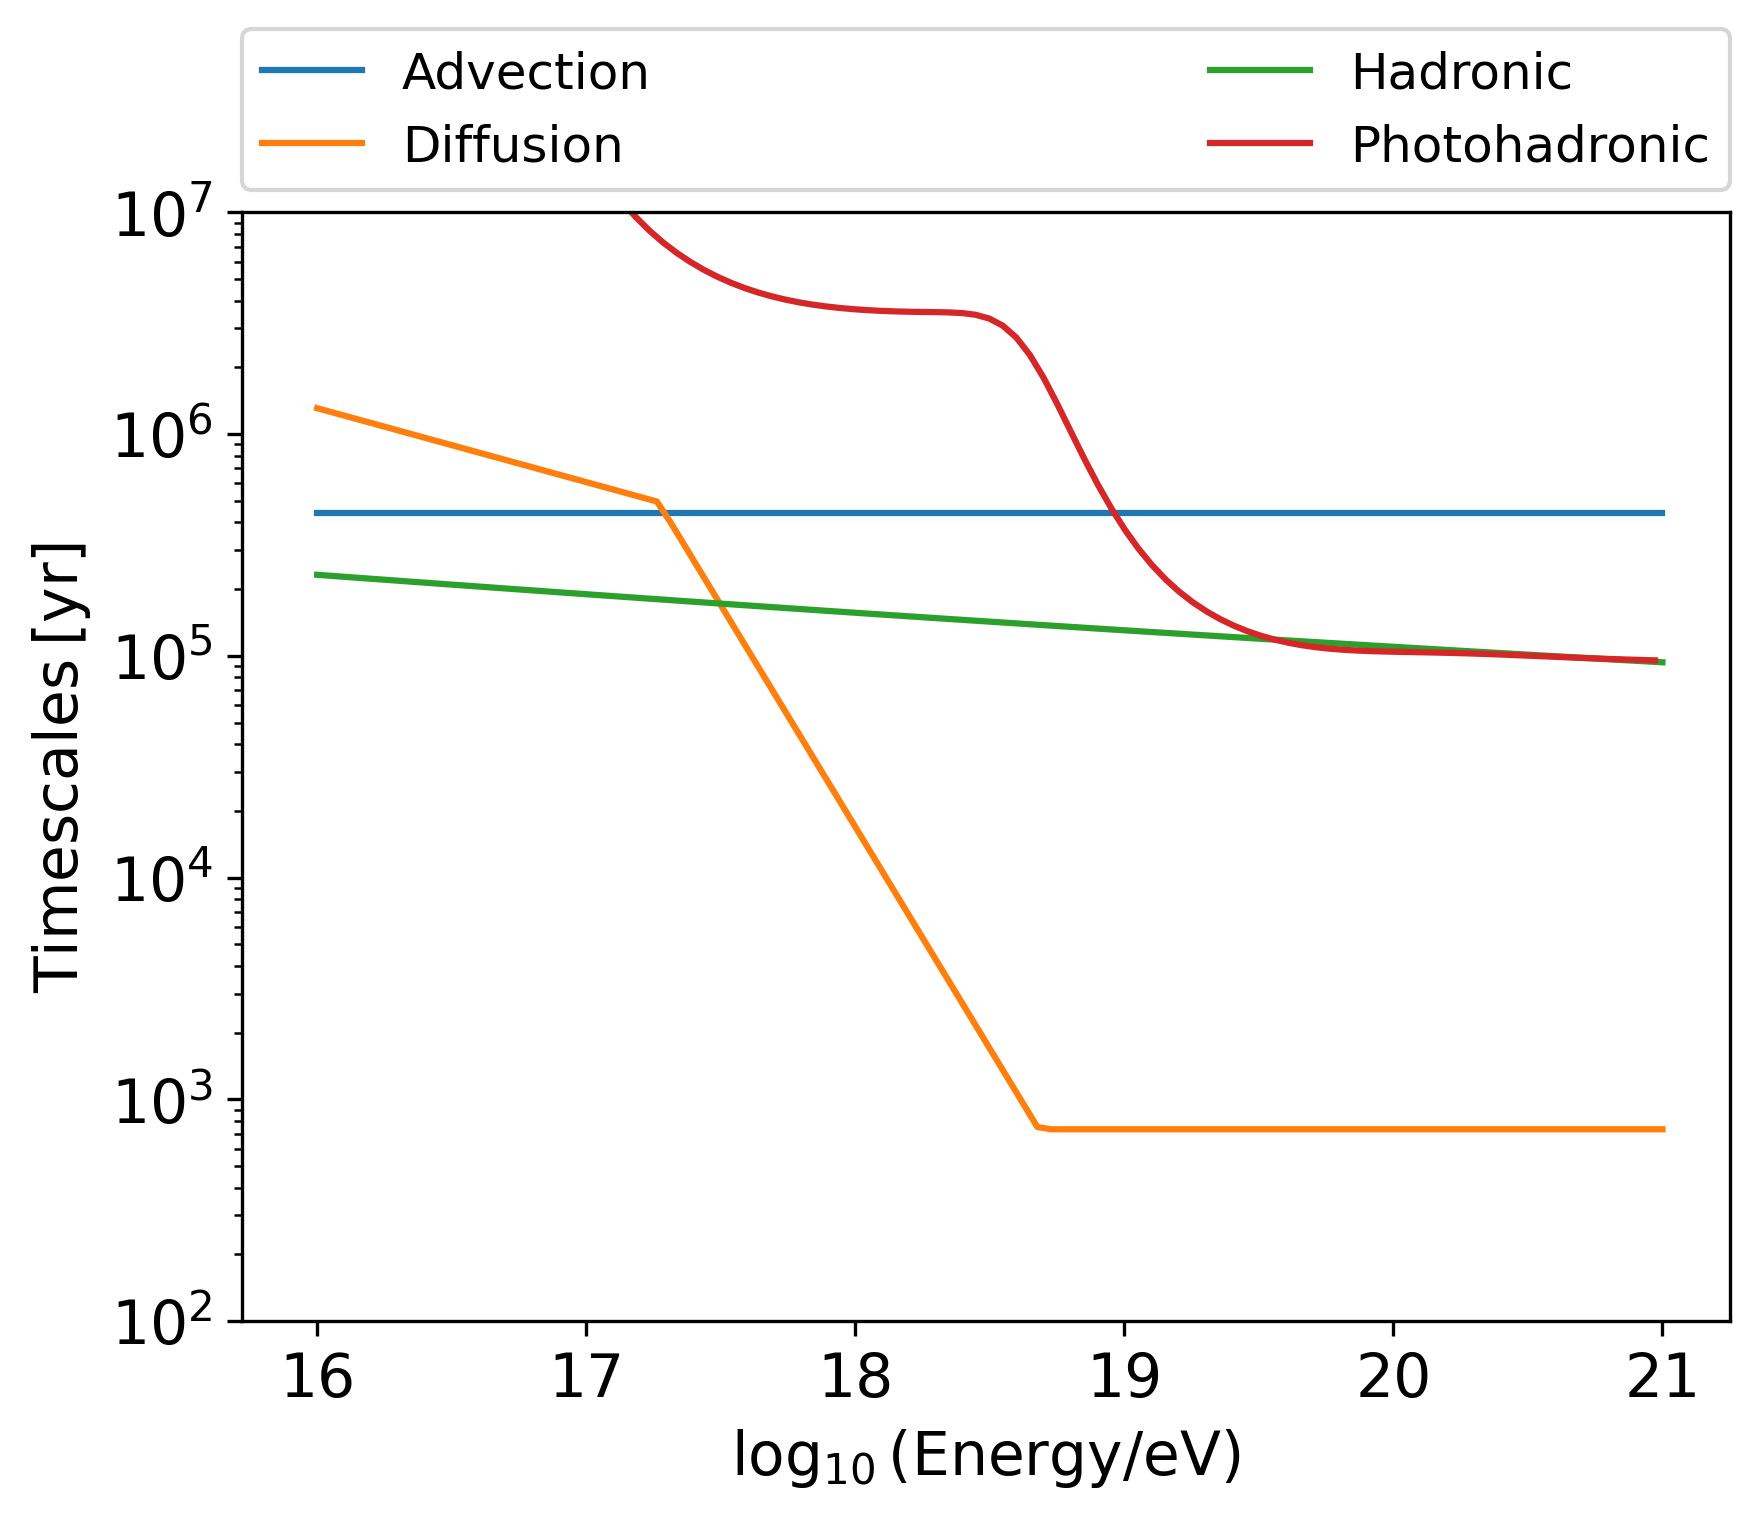
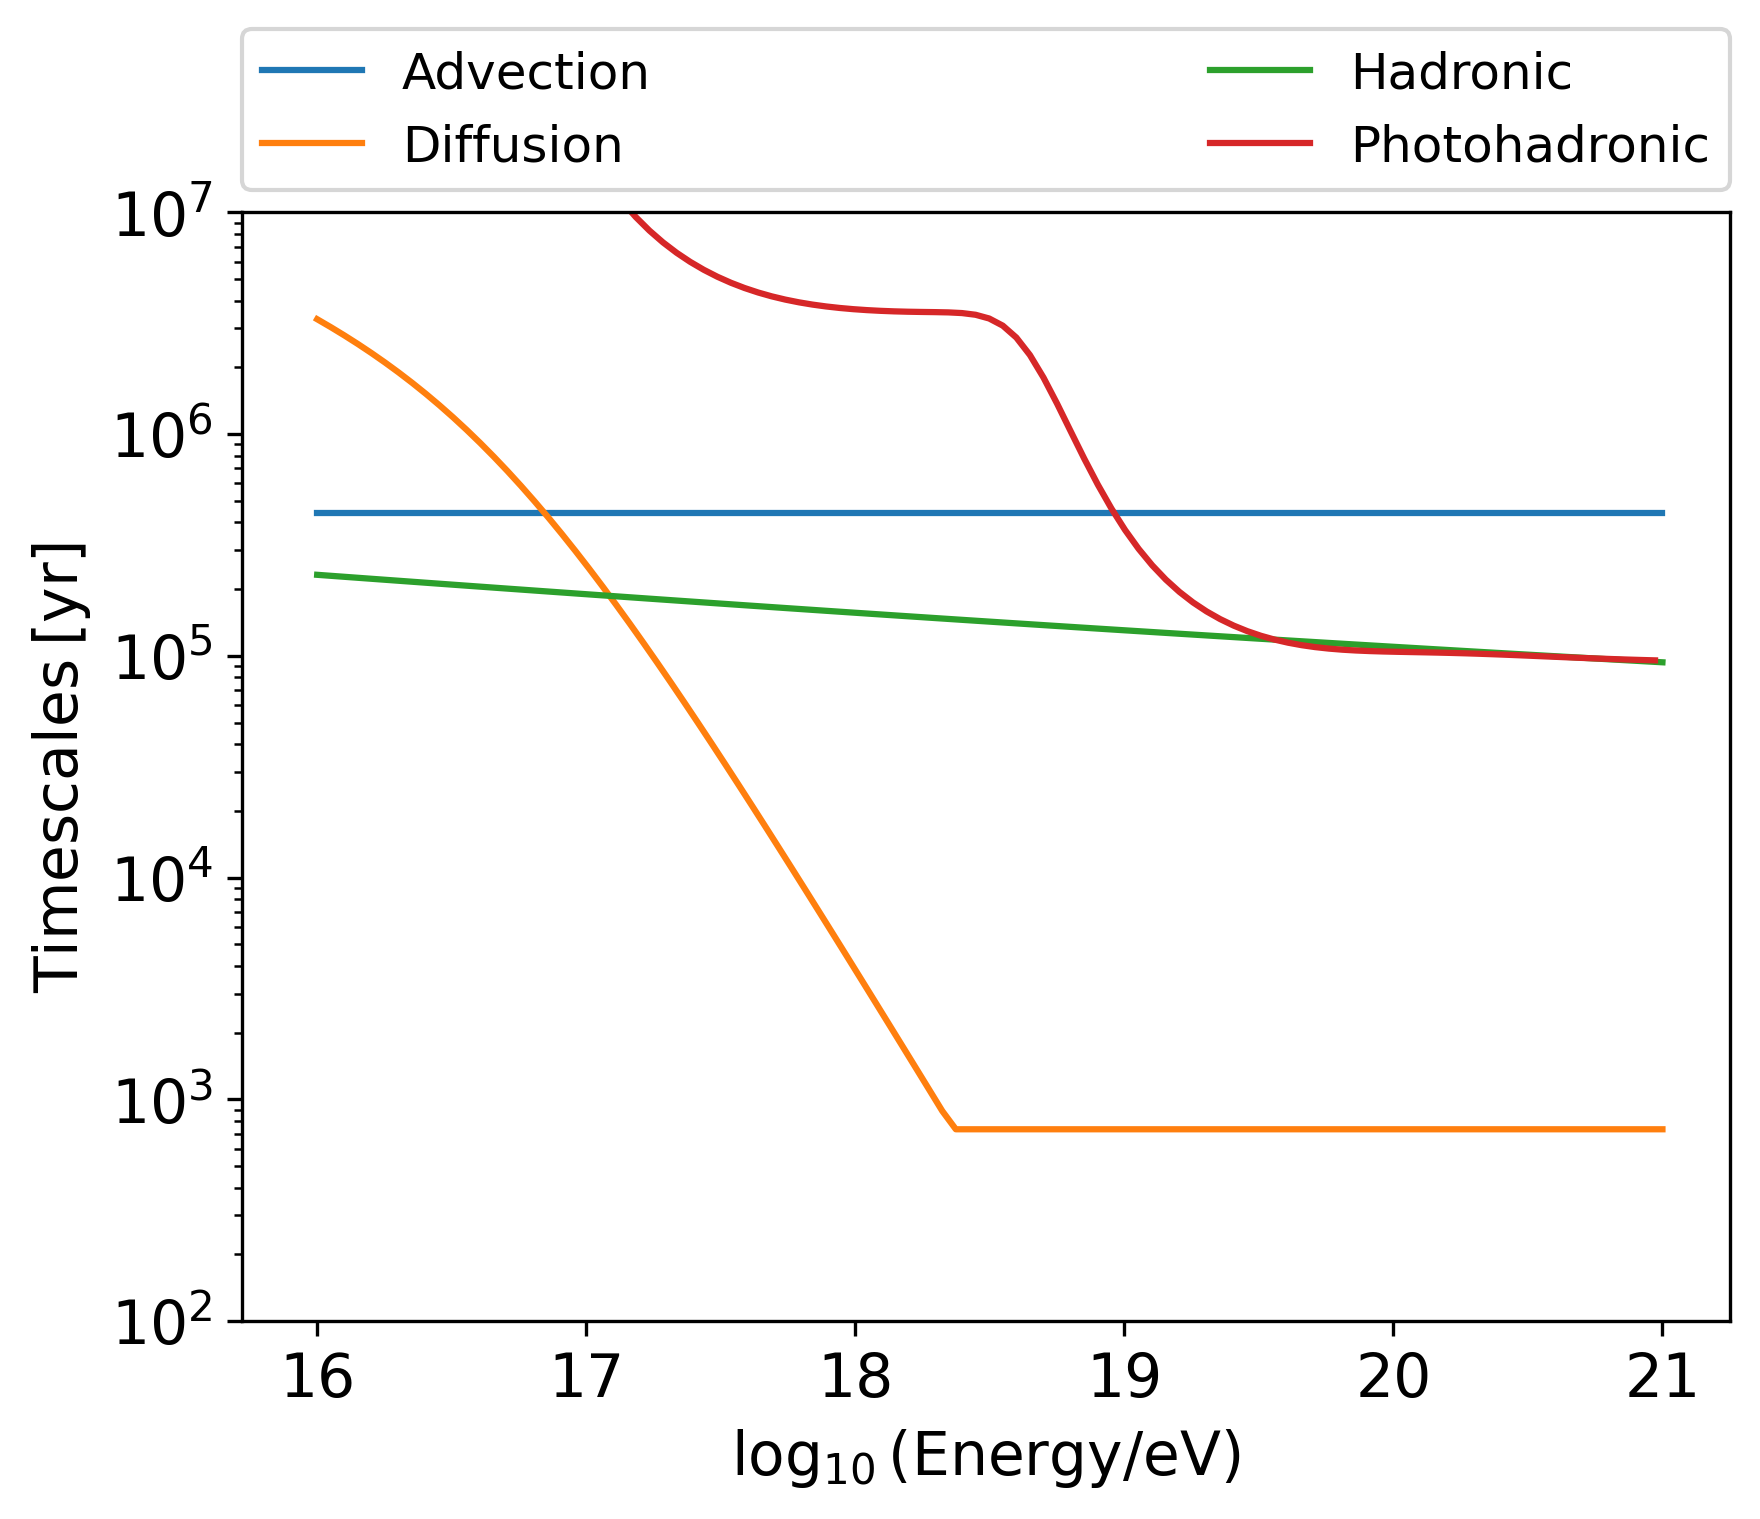
Update diffusion coefficient in timescale plots to that of Mollerach & Roulet (2019)

diff --git a/timescales/scripts/plot_timescales.py b/timescales/scripts/plot_timescales.py
@@ -43,8 +43,8 @@ def compute_photohadronic_timescales(Z):
 def plot_timescales():
 
     data_advection = np.loadtxt(f"{RESULTS_DIR}/timescales_advection.dat") 
-    data_diff_1H = np.loadtxt(f"{RESULTS_DIR}/timescales_diff_1H.dat")
-    data_diff_56Fe = np.loadtxt(f"{RESULTS_DIR}/timescales_diff_56Fe.dat")
+    data_diff_1H = np.loadtxt(f"{RESULTS_DIR}/timescales_MR19_diff_1H.dat")
+    data_diff_56Fe = np.loadtxt(f"{RESULTS_DIR}/timescales_MR19_diff_56Fe.dat")
     data_spal_1H = np.loadtxt(f"{RESULTS_DIR}/timescales_spal_1H.dat")
     data_spal_56Fe = np.loadtxt(f"{RESULTS_DIR}/timescales_spal_56Fe.dat")
     data_photohadronic_1H = compute_photohadronic_timescales(1)
@@ -70,7 +70,7 @@ def plot_timescales():
 def plot_proton_timescales():
 
     data_advection = np.loadtxt(f"{RESULTS_DIR}/timescales_advection.dat") 
-    data_diff_1H = np.loadtxt(f"{RESULTS_DIR}/timescales_diff_1H.dat")
+    data_diff_1H = np.loadtxt(f"{RESULTS_DIR}/timescales_MR19_diff_1H.dat")
     data_spal_1H = np.loadtxt(f"{RESULTS_DIR}/timescales_spal_1H.dat")
     data_photohadronic_1H = compute_photohadronic_timescales(1)
 
@@ -90,6 +90,7 @@ def plot_proton_timescales():
 # ----------------------------------------------------------------------------------------------------
 if __name__ == '__main__':
 
+    plot_timescales()
     plot_proton_timescales()
 
 # ----------------------------------------------------------------------------------------------------
